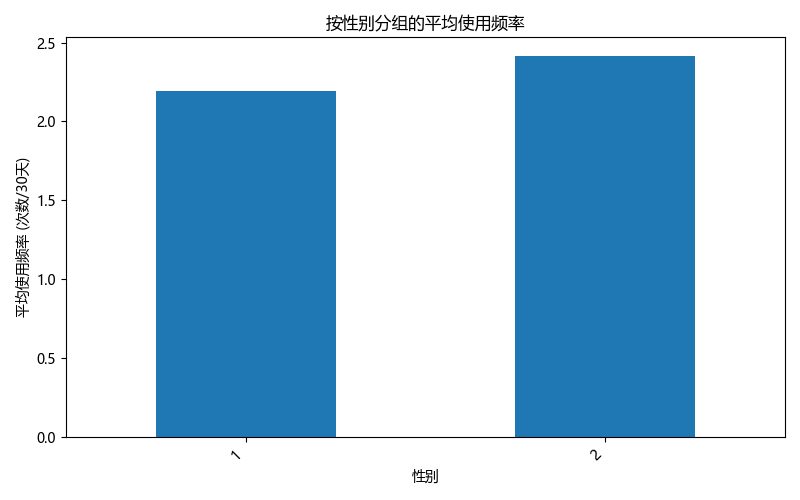
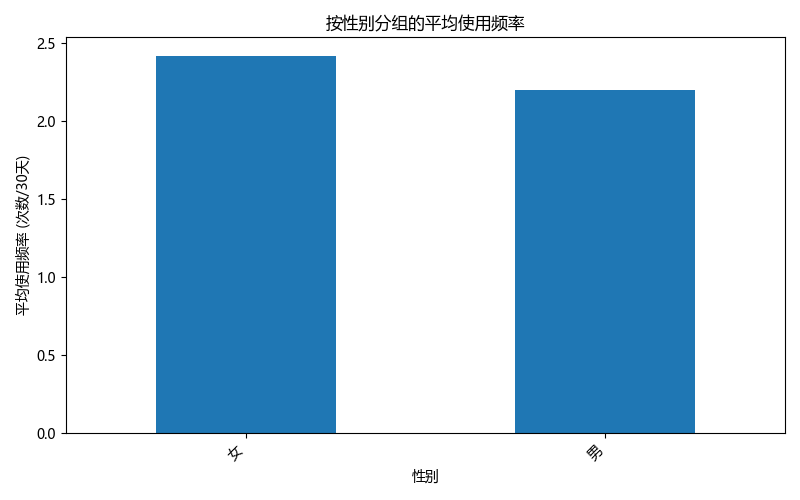
完善

diff --git a/2.相关性分析.py b/2.相关性分析.py
@@ -59,6 +59,9 @@ for col in df.columns:
 for col in all_likert_cols:
     df[col] = df[col].astype(str).str.replace(r'^[A-E]\.\s*', '', regex=True).map(likert_mapping)
 
+# 保存原始分类变量值用于图表显示
+gender_dict = {'A.男': '男', 'B.女': '女'}
+df['性别_标签'] = df['7.您的性别'].map(gender_dict)
 
 # 人口统计学特征的映射
 df['7.您的性别'] = df['7.您的性别'].map({'A.男': 1, 'B.女': 2})
@@ -121,7 +124,12 @@ for name, col in demographics_to_analyze.items():
     if col in df.columns and '使用频率_numeric' in df.columns:
         temp_df = df.dropna(subset=['使用频率_numeric', col])
         if not temp_df.empty:
-            mean_usage_by_group = temp_df.groupby(col)['使用频率_numeric'].mean()
+            if name == '性别':
+                # 对性别特殊处理，使用文本标签而不是数字编码
+                mean_usage_by_group = temp_df.groupby('性别_标签')['使用频率_numeric'].mean()
+            else:
+                mean_usage_by_group = temp_df.groupby(col)['使用频率_numeric'].mean()
+                
             print(f"\n按{name}分组的平均使用频率:")
             print(mean_usage_by_group)
 
